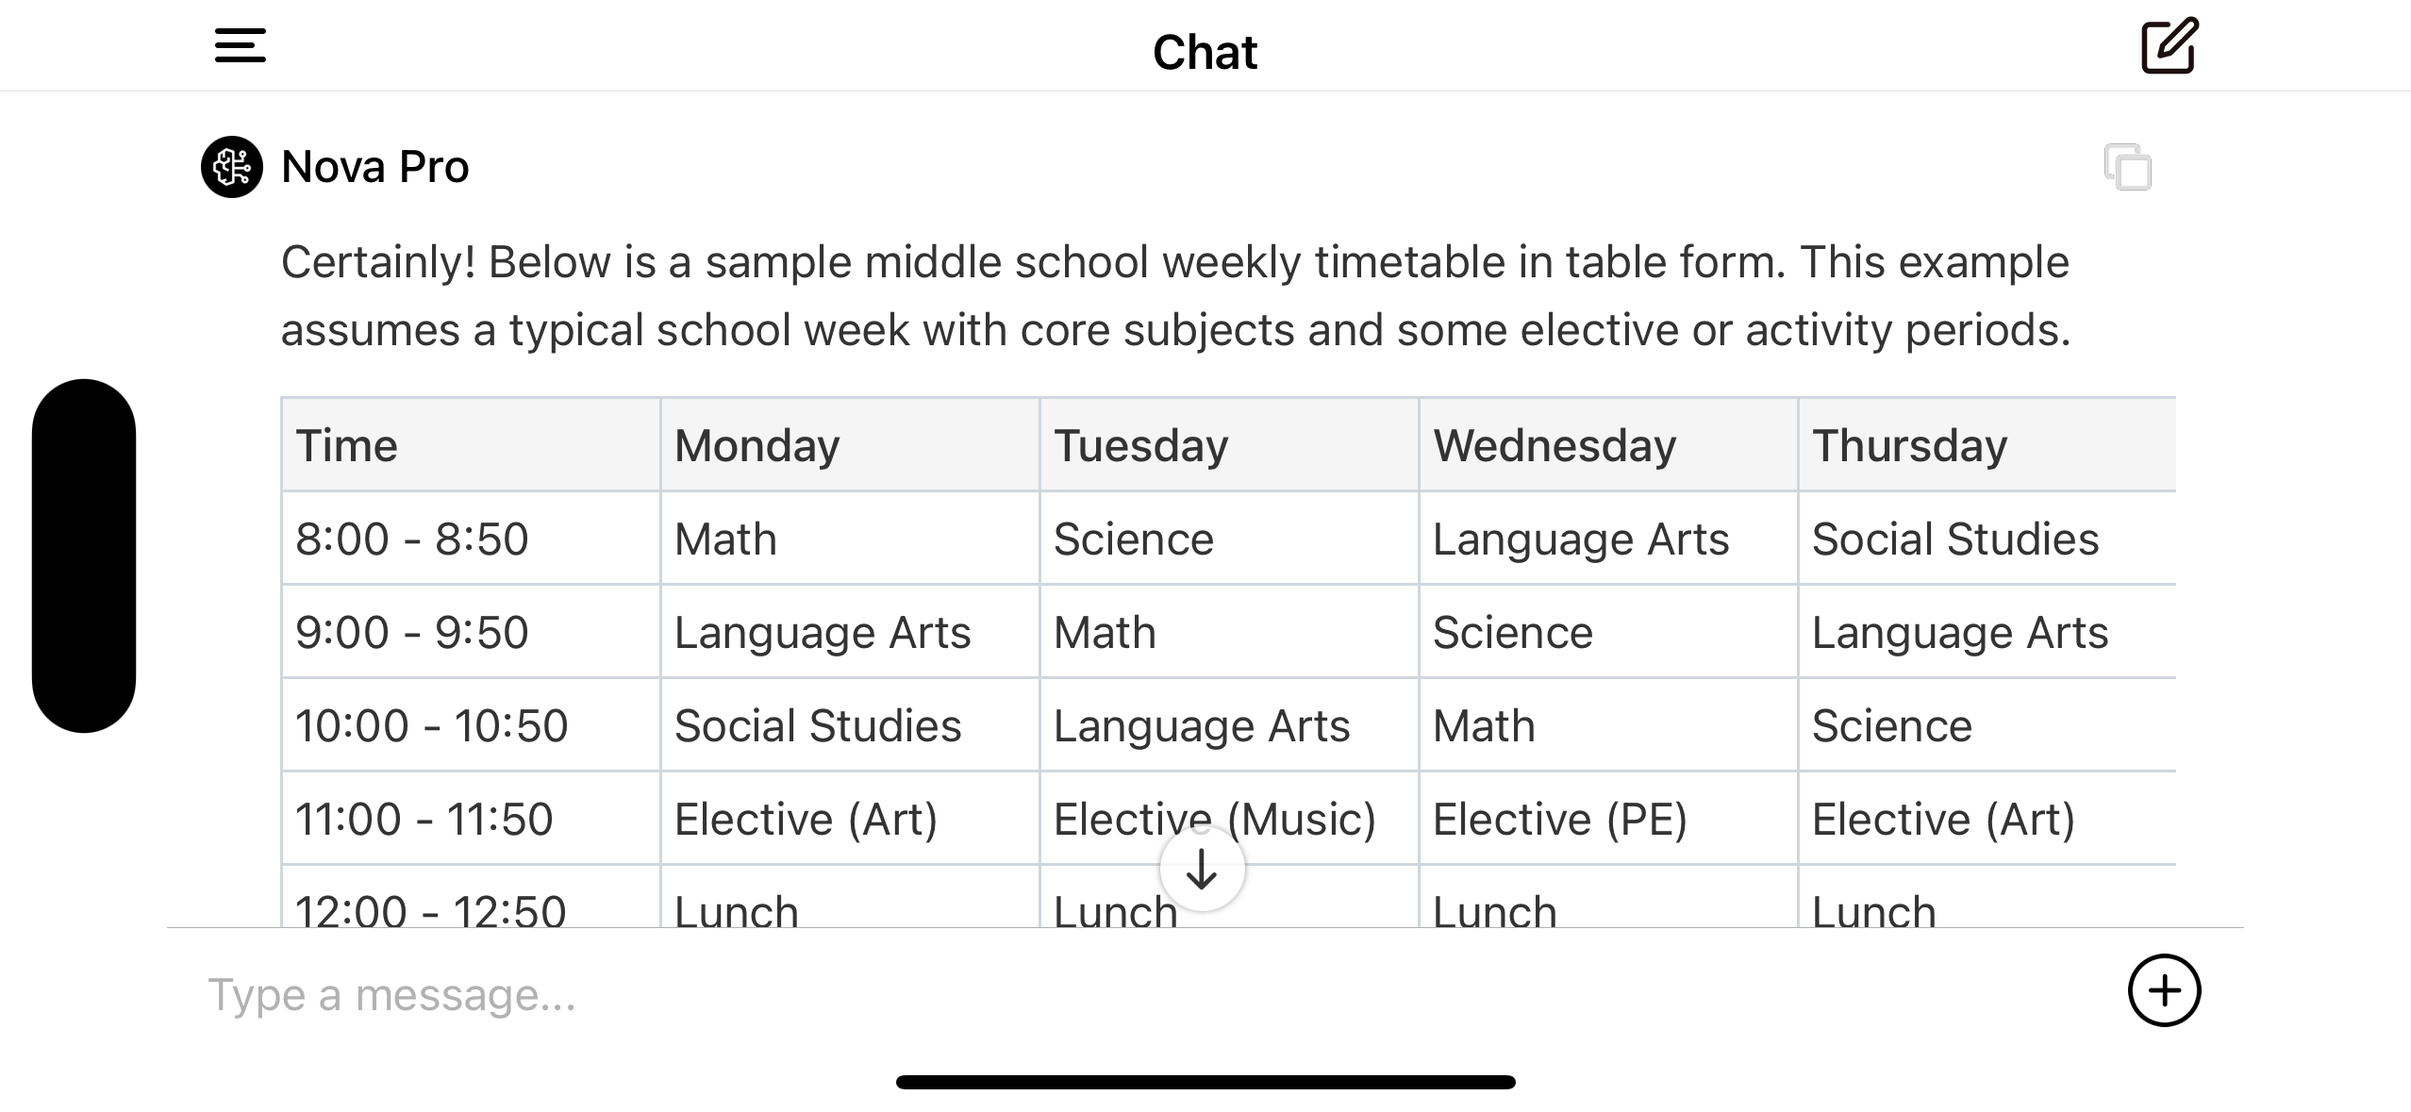
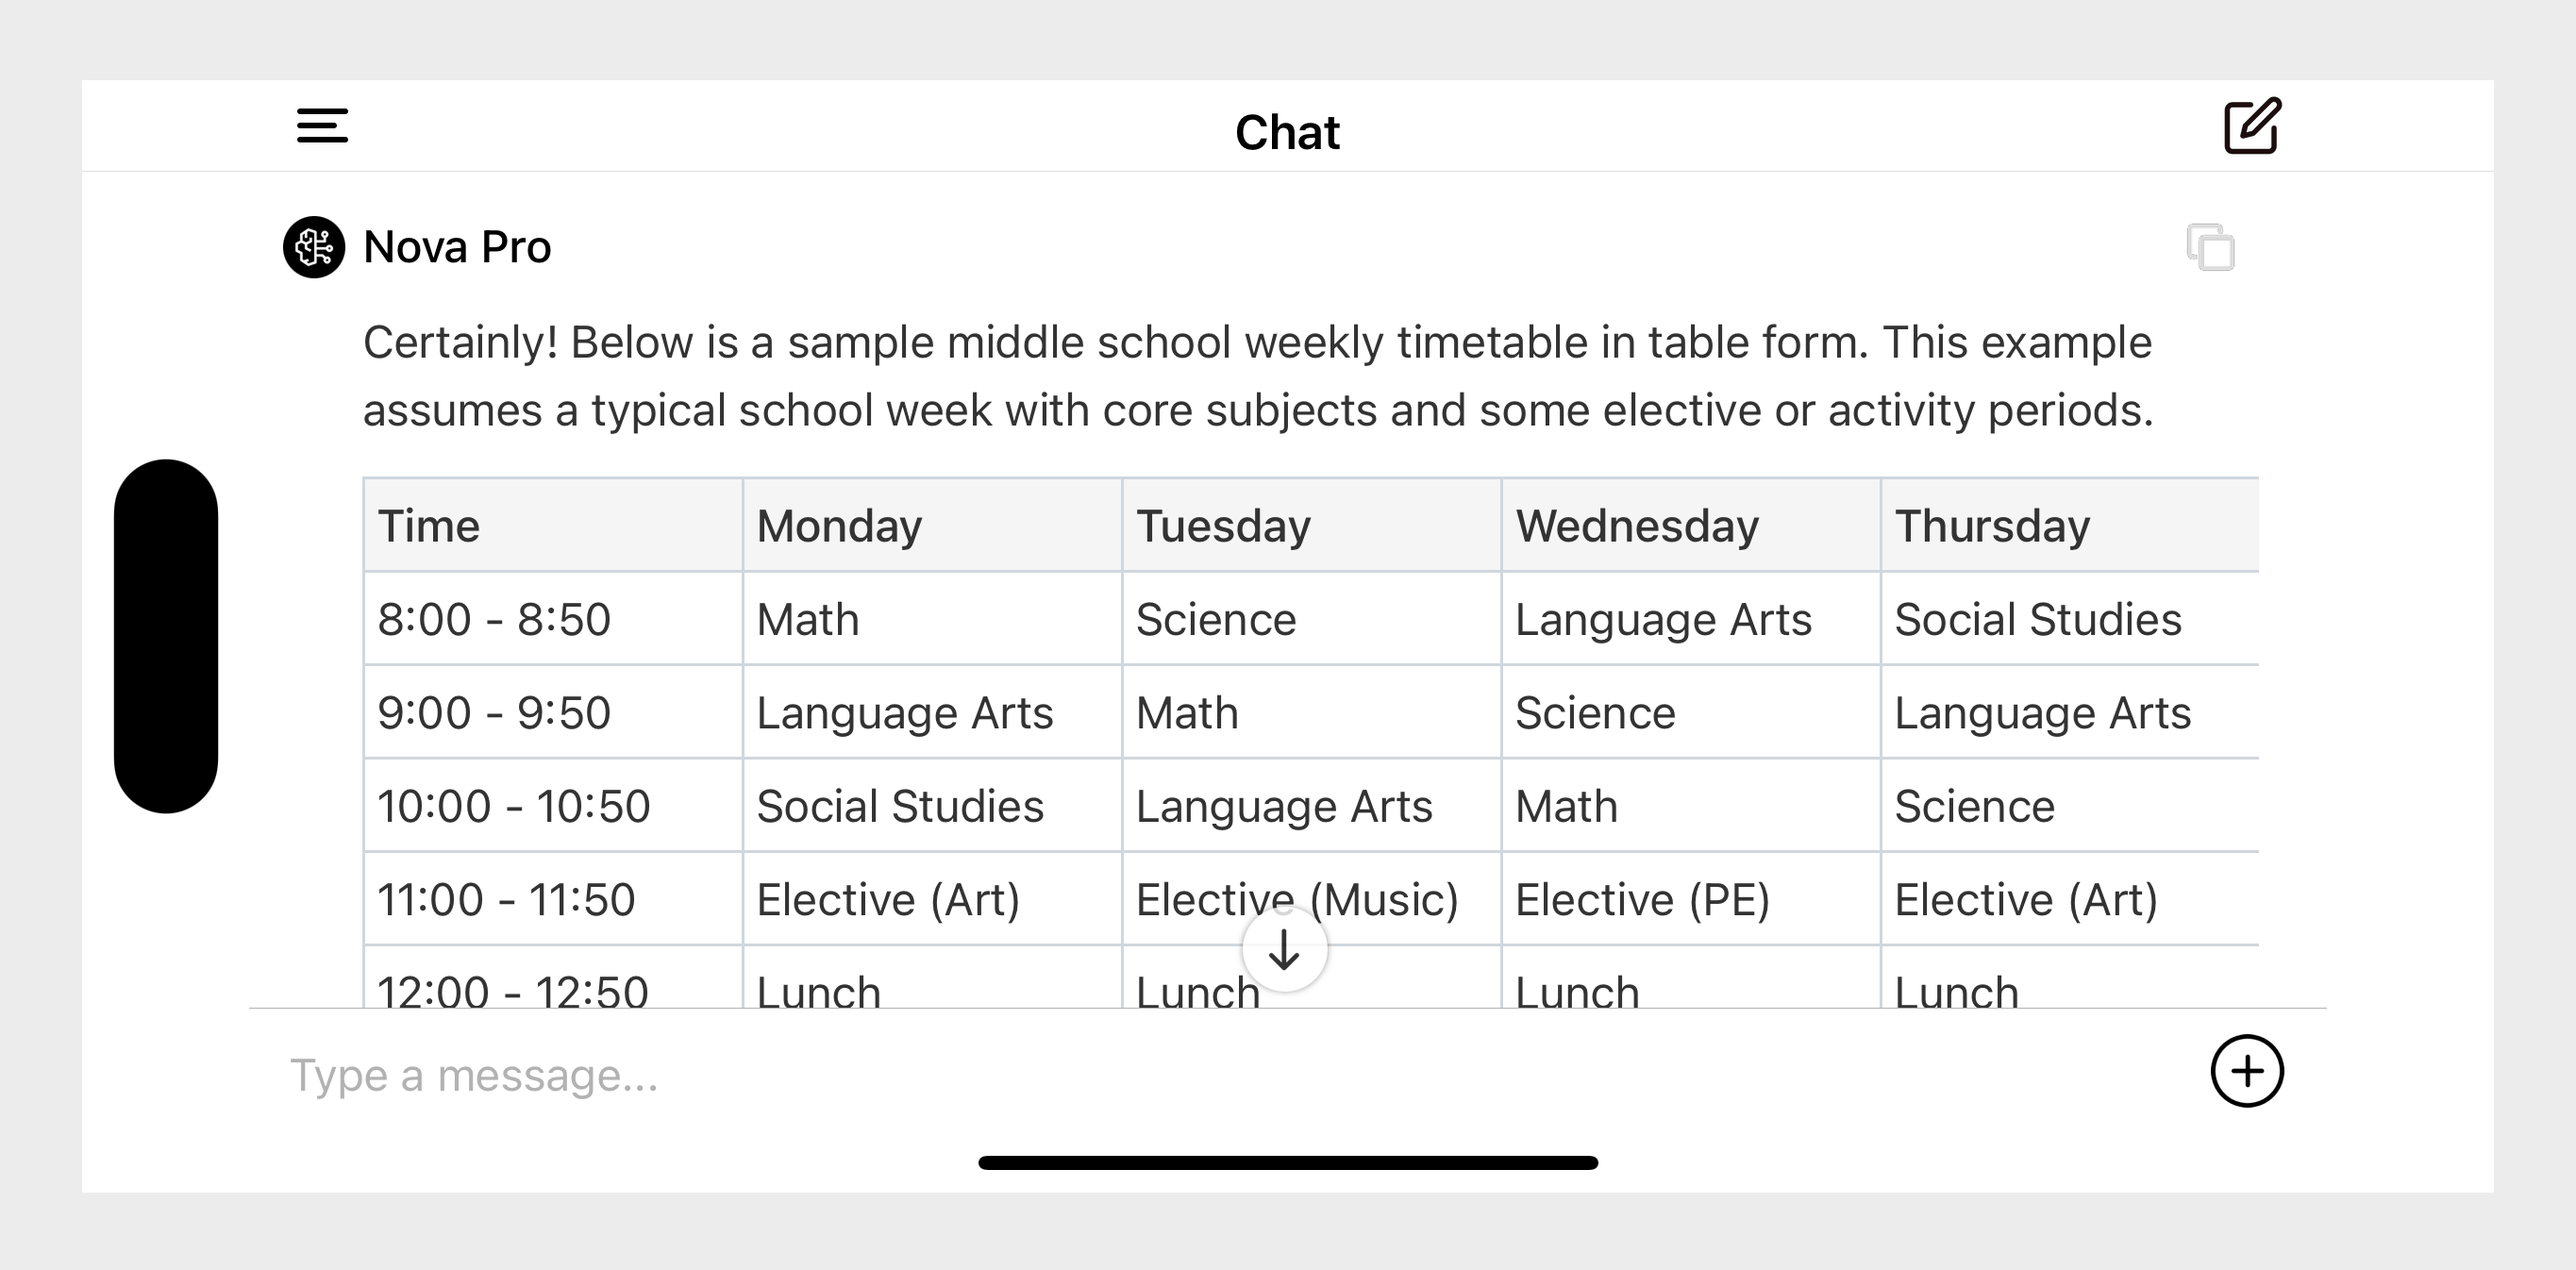
feat: update readme (#10)

diff --git a/README_CN.md b/README_CN.md
@@ -27,13 +27,14 @@ macOS 等多个平台。
 - 支持直接在安卓和 iOS 设备上录制最长 30 秒的视频供 Nova 分析
 - 支持自动压缩上传超过 8MB 的高清视频（1080p/4K）
 - 支持通过自然语言让 Nova Canvas 生成图片，去除背景，替换背景，以及生成类似风格的图片
-- 支持 Amazon Nova 系列渲染 LaTeX 公式
+- 支持 Amazon Nova 系列 LaTeX 公式渲染（行内混排和单独显示模式）
 
-下图展示了 SwiftChat 支持丰富的 Markdown 内容渲染，其中我们从头设计了 UI，例如字号，行间距。使其展示更加美观简洁。
+其中我们从新设计了 UI，例如字号行间距等，使其展示更加美观简洁。下图展示了 SwiftChat 支持丰富的 Markdown 内容渲染（段落、代码块、表格、LaTeX
+公式等）。
 
 ![](assets/markdown.png)
 
-你所看到的这些内容都可以在所有支持的平台上以原生 UI 的形式很好的呈现。
+你所看到的这些内容都可以在所有支持的平台上以原生 UI 的形式很好地呈现。
 
 ## 架构
 
@@ -156,9 +157,8 @@ macOS 等多个平台。
 - [x] 在设置中查看详细的 token 使用情况和图片生成数量
 - [x] 应用内升级提示（Android 和 macOS）
 
-我们针对横屏做了相应优化，下图展示了通过横屏模式您可以很好的阅读代码及表格内容。
+我们针对横屏做了相应优化，下图展示了通过横屏模式您可以很好地阅读表格内容。
 ![](assets/landscape_zh.png)
-![](assets/landscape_code_zh.png)
 
 ## 是什么让 SwiftChat 如此"迅速"?
 

diff --git a/README.md b/README.md
@@ -29,10 +29,10 @@ macOS platforms.
 - Upload large videos (1080p/4K) beyond 8MB with auto compression
 - Support using natural language to make Nova Canvas generate images, remove backgrounds, replace backgrounds, and
   create images in similar styles.
-- Support LaTeX formula rendering for Amazon Nova.
+- Support LaTeX formula rendering (inline and display modes) for Amazon Nova.
 
-The image below demonstrates SwiftChat rich markdown content support. We redesigned the UI with optimized font sizes and
-line spacing for a more elegant and clean presentation.
+We redesigned the UI with optimized font sizes and line spacing for a more elegant and clean presentation. The image 
+below demonstrates SwiftChat rich markdown content support (Paragraph, Code Blocks, Tables, LaTeX and more)
 
 ![](assets/markdown.png)
 
@@ -167,11 +167,10 @@ We feature streamlined chat History, Settings pages, and intuitive Usage statist
 - [x] Check detailed token usage and image generation count in Settings
 - [x] In-app upgrade notifications (Android & macOS)
 
-We have optimized the layout for landscape mode. As shown below, you can comfortably view table and code contents in 
-landscape orientation.
+We have optimized the layout for landscape mode. As shown below, you can comfortably view table contents in landscape
+orientation.
 
 ![](assets/landscape.png)
-![](assets/landscape_code.png)
 
 ## What Makes SwiftChat Really "Swift"?
 

diff --git a/server/README.md b/server/README.md
@@ -1,6 +1,6 @@
 ## SwiftChat Backend API
 
-The SwiftChat backend API is implemented using Python language and the FastAPI framework. It is packaged as a Docker image using [aws-lambda-adapter](https://github.com/awslabs/aws-lambda-web-adapter) and deployed to both AWS App Runner and AWS Lambda for execution.
+The SwiftChat backend API is implemented using Python language and the FastAPI framework. It is packaged as a Docker image using [aws-lambda-adapter](https://github.com/awslabs/aws-lambda-web-adapter) and deployed to AWS App Runner or AWS Lambda for execution.
 
 ## API Reference
 
